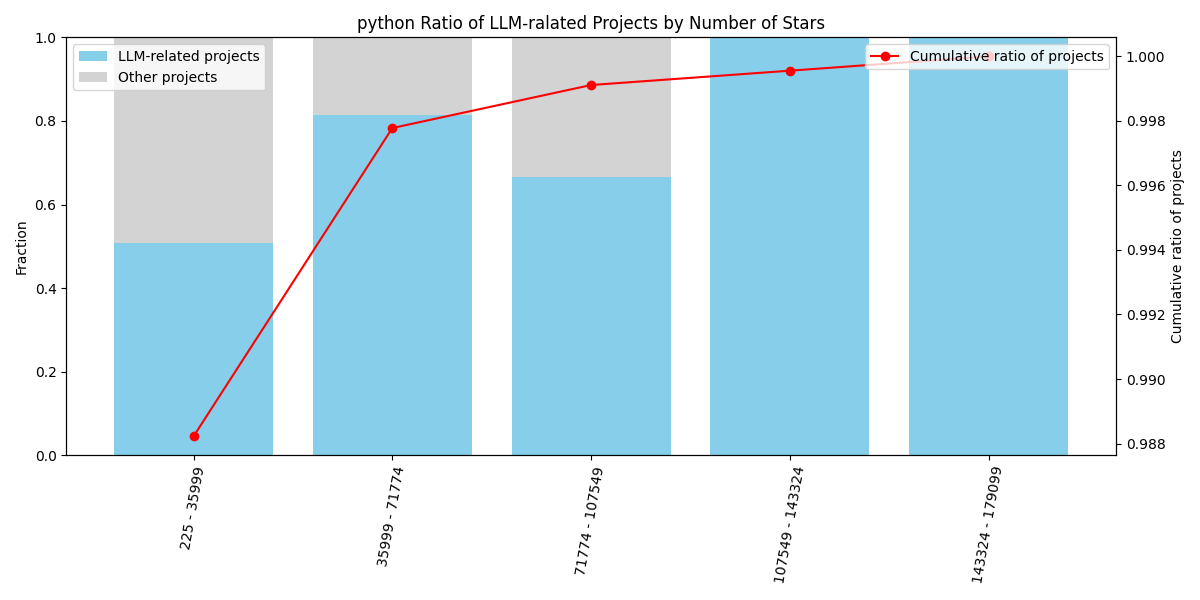
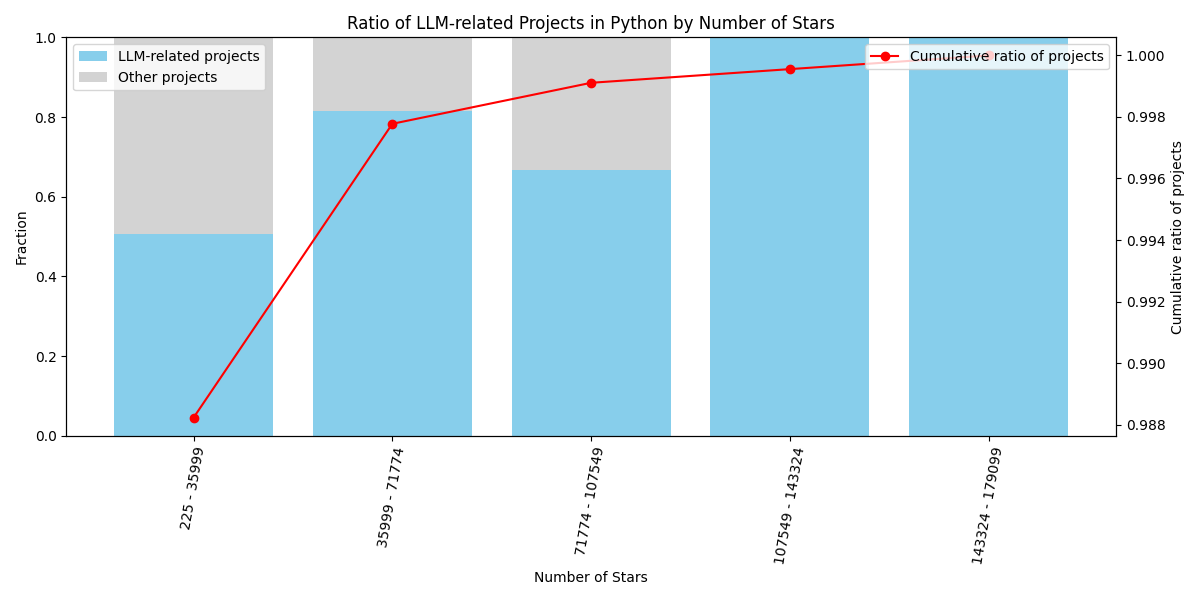
corrected some grammatical errors

diff --git a/Scripts/build_graphs.py b/Scripts/build_graphs.py
@@ -51,7 +51,7 @@ def monthly_llm_ratio_graph(language: str) -> tuple[list[int], list[int]]:
     """Collect the proportion of LLM-related project by month"""
     llm_projects = {}
     projects = {}
-    with open(f"Data/{language}_repo_metadata.json", "r") as f:
+    with open(f"Data/{language.lower()}_repo_metadata.json", "r") as f:
         data_dicts = json.load(f)
         for i in range(len(data_dicts)):
             month_key = datetime.fromisoformat(data_dicts[i]["created_at"]).strftime(
@@ -89,7 +89,7 @@ def monthly_llm_ratio_graph(language: str) -> tuple[list[int], list[int]]:
     plt.xticks(x, months, rotation=80)
     plt.legend()
     plt.tight_layout()
-    plt.savefig(f"../Figures/{language}_llm_fraction.png")
+    plt.savefig(f"../Figures/{language.lower()}_llm_fraction.png")
 
     return projects_n, llm_projects_n
 
@@ -129,7 +129,7 @@ def popularity_llm_ratio_graph(language: str):
     """Collect the proportion of LLM-related project by number of stars"""
     projects_number = np.zeros(5)
     llm_projects_number = np.zeros(5)
-    with open(f"Data/{language}_repo_metadata.json", "r") as f:
+    with open(f"Data/{language.lower()}_repo_metadata.json", "r") as f:
         data_dicts = json.load(f)
         max_stars = max(dict["stargazers_count"] for dict in data_dicts)
         min_stars = min(dict["stargazers_count"] for dict in data_dicts)
@@ -169,6 +169,7 @@ def popularity_llm_ratio_graph(language: str):
         label="Other projects",
     )
     ax.set_ylabel("Fraction")
+    ax.set_xlabel("Number of Stars")
     ax.set_ylim(0, 1)
     ax.set_xticks(x)
     ax.set_xticklabels(labels, rotation=80)
@@ -181,18 +182,18 @@ def popularity_llm_ratio_graph(language: str):
     )
     ax2.set_ylabel("Cumulative ratio of projects")
     ax2.legend(loc="upper right")
-    plt.title(f"{language} Ratio of LLM-ralated Projects by Number of Stars")
+    plt.title(f"Ratio of LLM-related Projects in {language} by Number of Stars")
     plt.tight_layout()
-    plt.savefig(f"../Figures/{language}_llm_fraction_stars.png")
+    plt.savefig(f"../Figures/{language.lower()}_llm_fraction_stars.png")
 
 
 if __name__ == "__main__":
-    ppn, pp_llm_n = monthly_llm_ratio_graph("python")
-    jpn, jp_llm_n = monthly_llm_ratio_graph("java")
-    cpn, cp_llm_n = monthly_llm_ratio_graph("c#")
-    jspn, jsp_llm_n = monthly_llm_ratio_graph("javascript")
+    ppn, pp_llm_n = monthly_llm_ratio_graph("Python")
+    jpn, jp_llm_n = monthly_llm_ratio_graph("Java")
+    cpn, cp_llm_n = monthly_llm_ratio_graph("C#")
+    jspn, jsp_llm_n = monthly_llm_ratio_graph("Javascript")
     gpn, gp_llm_n = monthly_llm_ratio_graph("go")
-    languages = ["python", "java", "c#", "javascript", "go"]
+    languages = ["Python", "Java", "C#", "Javascript", "Go"]
     n_repos = [np.sum(ppn), np.sum(jpn), np.sum(cpn), np.sum(jspn), np.sum(gpn)]
     n_llm_repos = [
         np.sum(pp_llm_n),
@@ -202,8 +203,8 @@ if __name__ == "__main__":
         np.sum(gp_llm_n),
     ]
     total_llm_ratio_graph(languages, n_repos, n_llm_repos)
-    popularity_llm_ratio_graph("python")
-    popularity_llm_ratio_graph("java")
-    popularity_llm_ratio_graph("c#")
-    popularity_llm_ratio_graph("javascript")
-    popularity_llm_ratio_graph("go")
+    popularity_llm_ratio_graph("Python")
+    popularity_llm_ratio_graph("Java")
+    popularity_llm_ratio_graph("C#")
+    popularity_llm_ratio_graph("Javascript")
+    popularity_llm_ratio_graph("Go")
